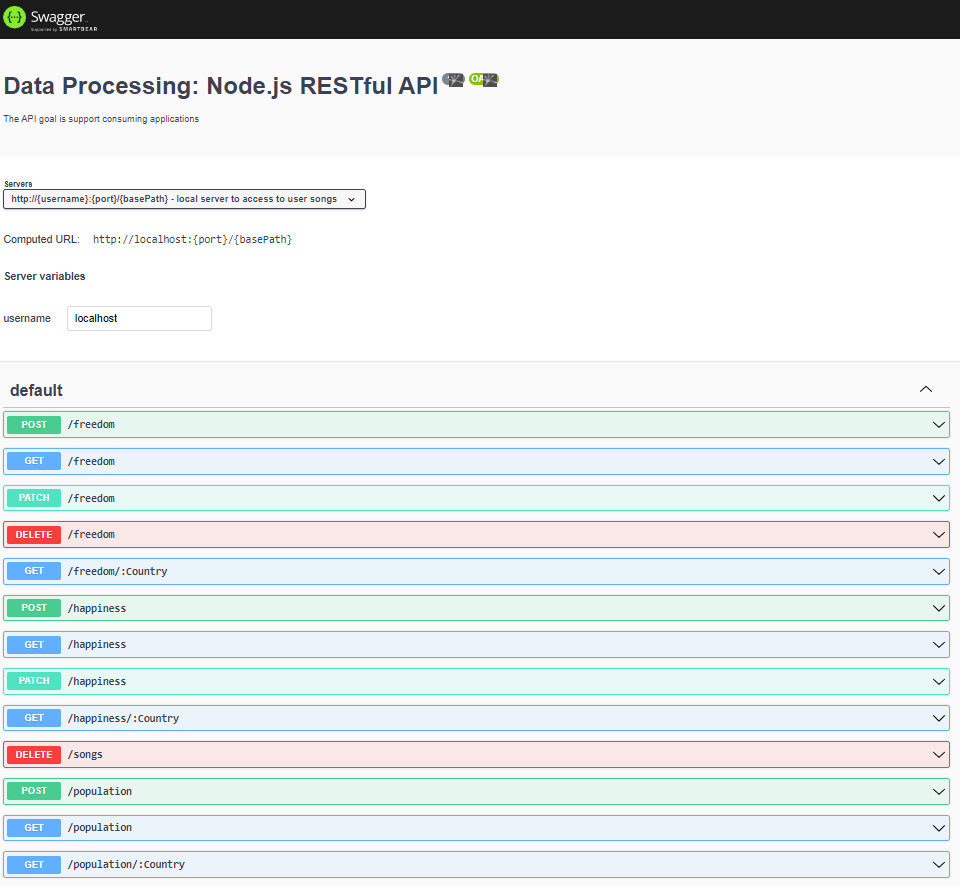
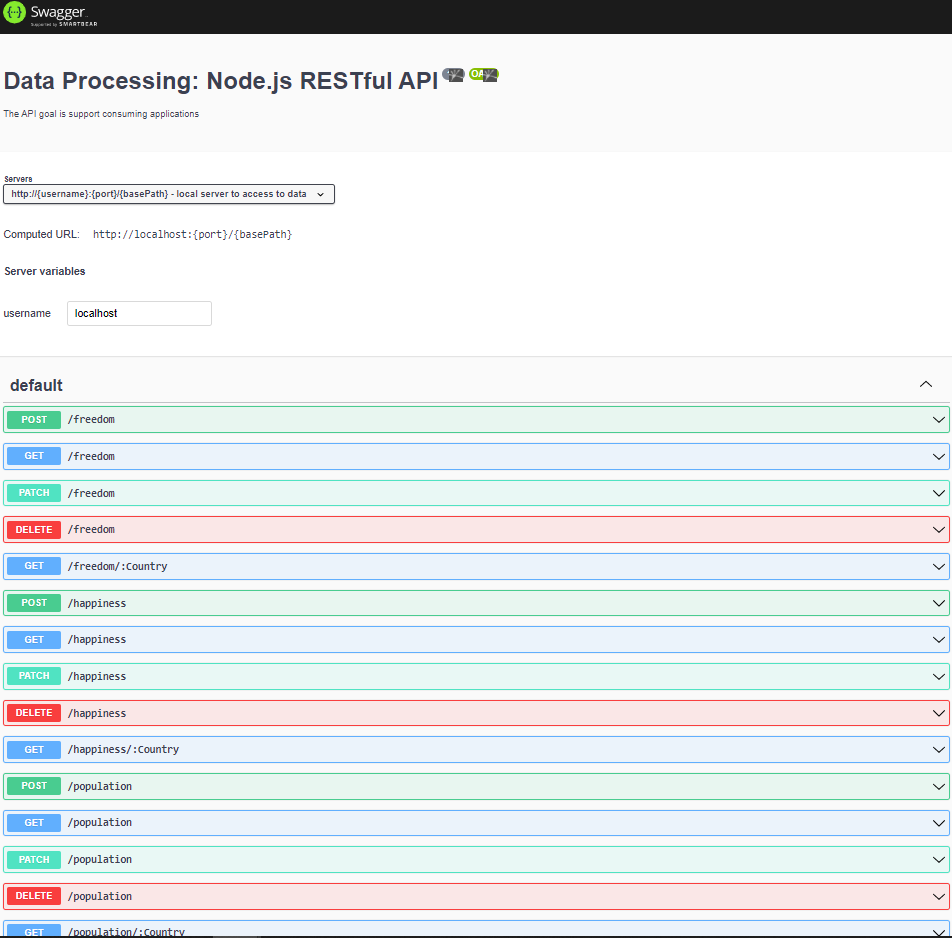
document update

Changed region(s): [[0.0, 0.3962, 1.0, 1.0], [0.0, 0.0, 1.0, 0.1524], [0.0, 0.1828, 0.3655, 0.3657]]

diff --git a/api/freedom/freedom.controller.js b/api/freedom/freedom.controller.js
@@ -6,14 +6,14 @@ const validateJson = require("../../middleware/validateJson");
 const freedomSchema = require("../../schemas/json/freedom.json");
 
 const validationXML = require("../../middleware/validateXml");
-const freedomSchemaXsd = require("../../schemas/xsd/freedom.xsd");
-const xmlSchemaDoc = loadXmlSchema(freedomSchemaXsd);
+// const freedomSchemaXsd = require("../../schemas/xsd/freedom.xsd");
+// const xmlSchemaDoc = loadXmlSchema(freedomSchemaXsd);
 
-function loadXmlSchema(xmlSchemaDoc) {
-    var schemaPath = path.join(__dirname, '..', 'schemas', xmlSchemaDoc);
-    var schemaText = fs.readFileSync(schemaPath, 'utf8');
-    return libxmljs.parseXml(schemaText); 
-}
+// function loadXmlSchema(xmlSchemaDoc) {
+//     var schemaPath = path.join(__dirname, '..', 'schemas', xmlSchemaDoc);
+//     var schemaText = fs.readFileSync(schemaPath, 'utf8');
+//     return libxmljs.parseXml(schemaText); 
+// }
 
 
 module.exports = {

diff --git a/api/freedom/freedom.router.js b/api/freedom/freedom.router.js
@@ -6,8 +6,8 @@ const validateJson = require("../../middleware/validateJson");
 const freedomSchema = require("../../schemas/json/freedom.json");
 
 const validationXML = require("../../middleware/validateXml");
-const freedomSchemaXsd = require("../../schemas/xsd/freedom.xsd");
-const xmlSchemaDoc = loadXmlSchema(freedomSchemaXsd);
+// const freedomSchemaXsd = require("../../schemas/xsd/freedom.xsd");
+// const xmlSchemaDoc = loadXmlSchema(freedomSchemaXsd);
 
 /**
  * @swagger

diff --git a/api/population/population.router.js b/api/population/population.router.js
@@ -49,7 +49,7 @@ const freedomSchema = require("../../schemas/json/freedom.json");
 
  /**
   * @swagger
-  * /freedom:
+  * /population:
   *  patch:
   *      description: Use it to update the population
   *      responses:
@@ -64,7 +64,7 @@ const freedomSchema = require("../../schemas/json/freedom.json");
 
  /**
   * @swagger
-  * /freedom:
+  * /population:
   *  delete:
   *      description: Use it to delete the population
   *      responses:

diff --git a/app.js b/app.js
@@ -40,7 +40,7 @@ const swaggerOptions = {
         },
         servers: [{
             url: "http://{username}:{port}/{basePath}",
-            description: "local server to access to user songs",
+            description: "local server to access to data",
             variables: {
                 username: {
                     default: URL,

diff --git a/api/happiness/happiness.router.js b/api/happiness/happiness.router.js
@@ -64,7 +64,7 @@ router.patch("/happiness", validateJson(freedomSchema), updateHappiness);
 
 /**
  * @swagger
- * /songs:
+ * /happiness:
  *  delete:
  *      description: Use it to delete the happiness
  *      responses:
